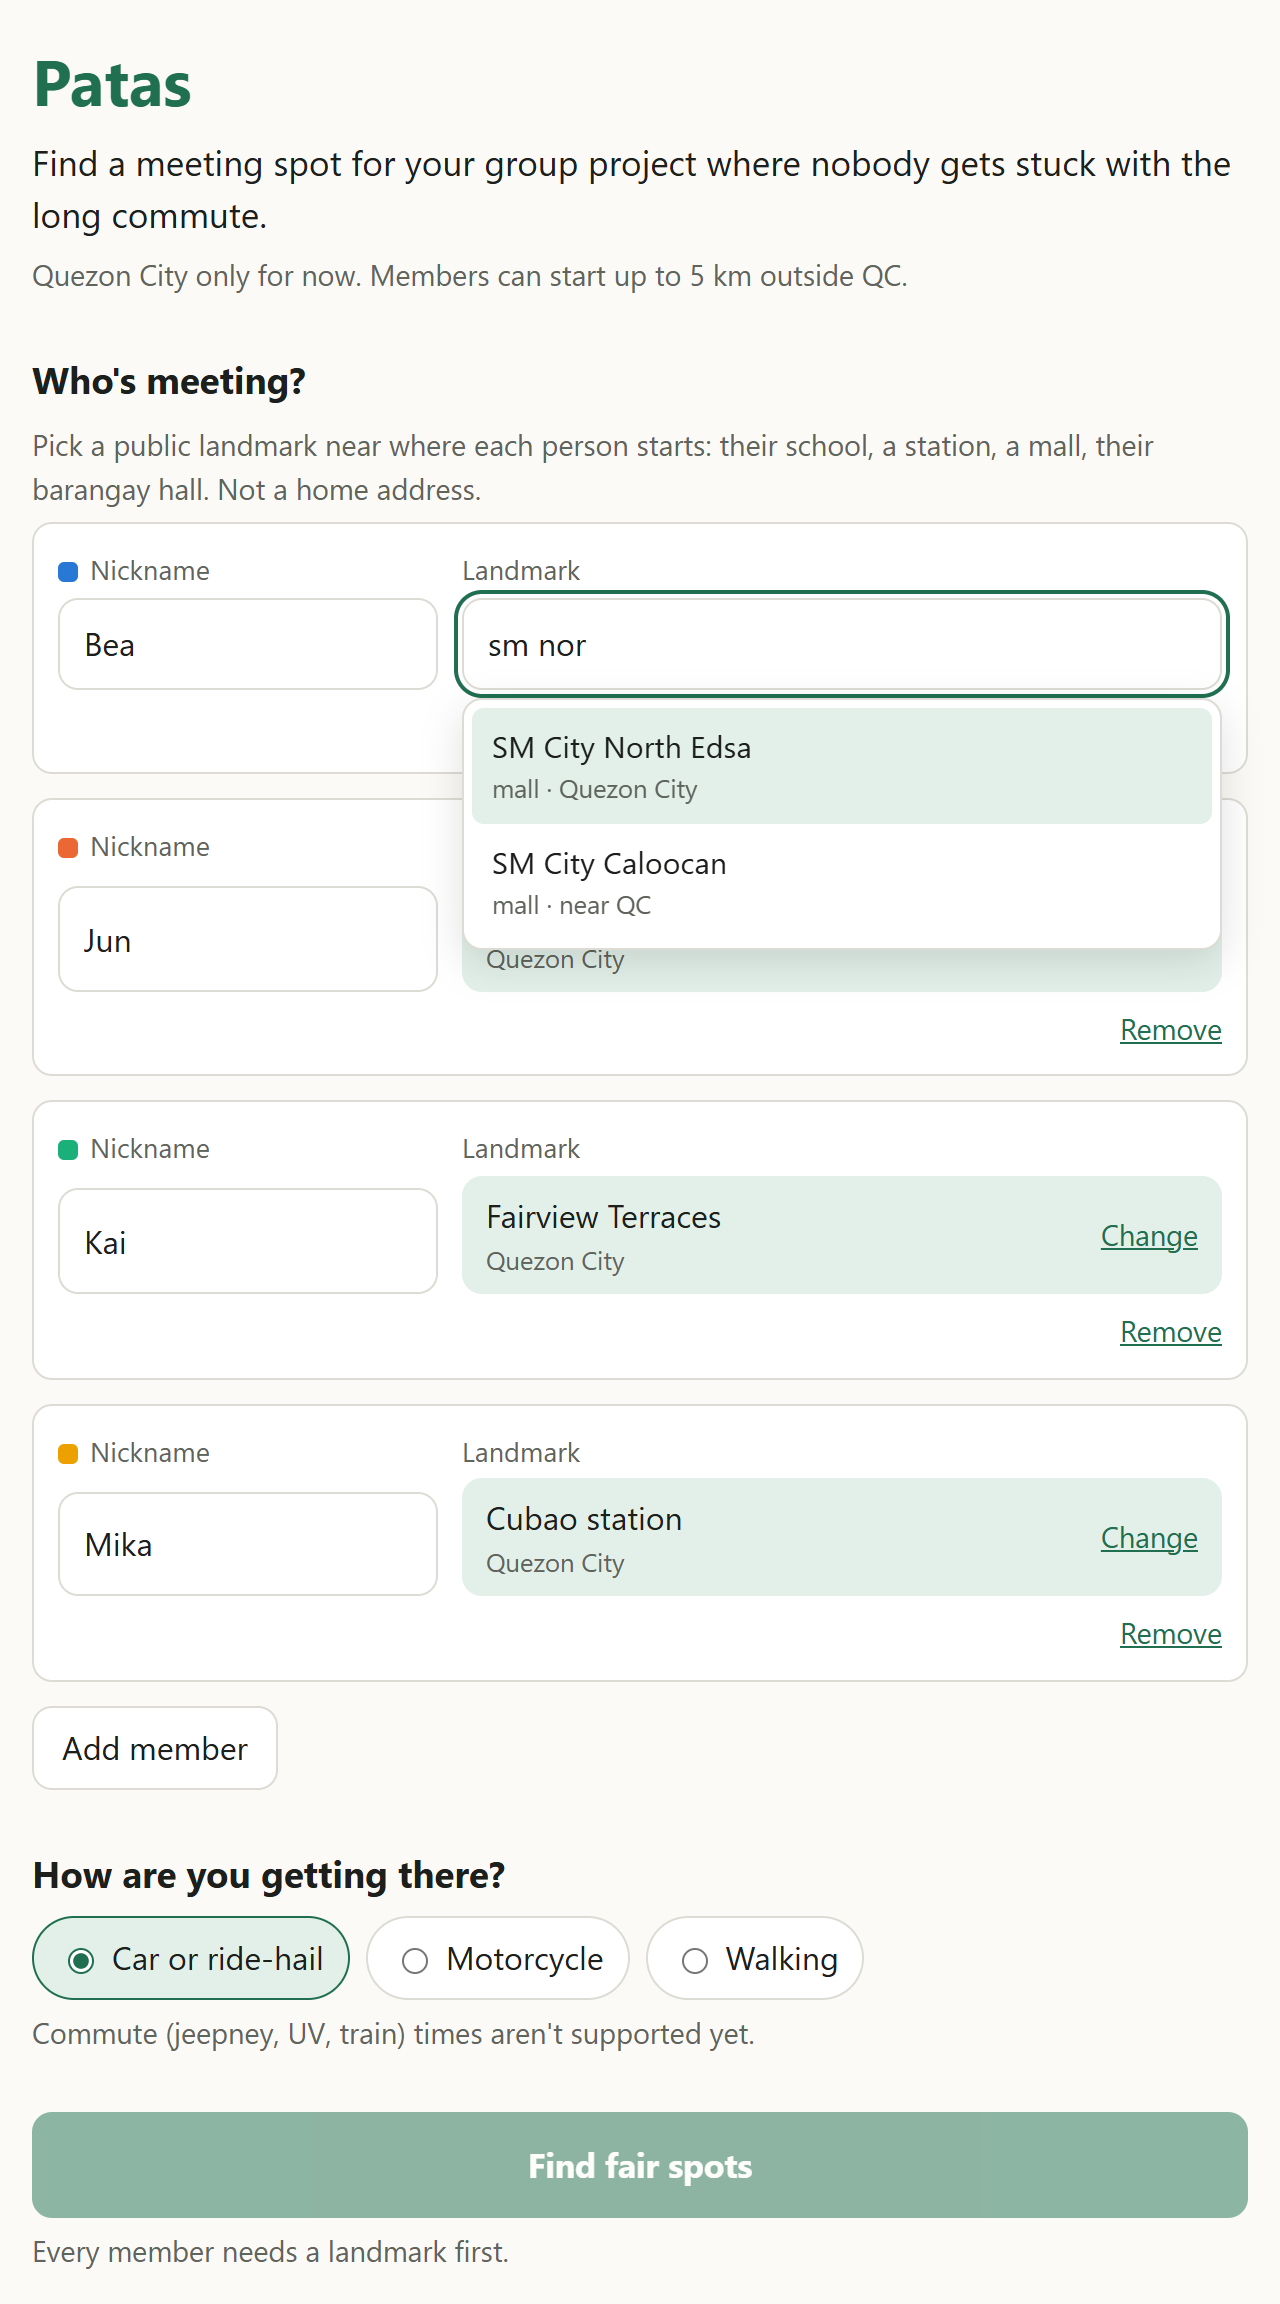
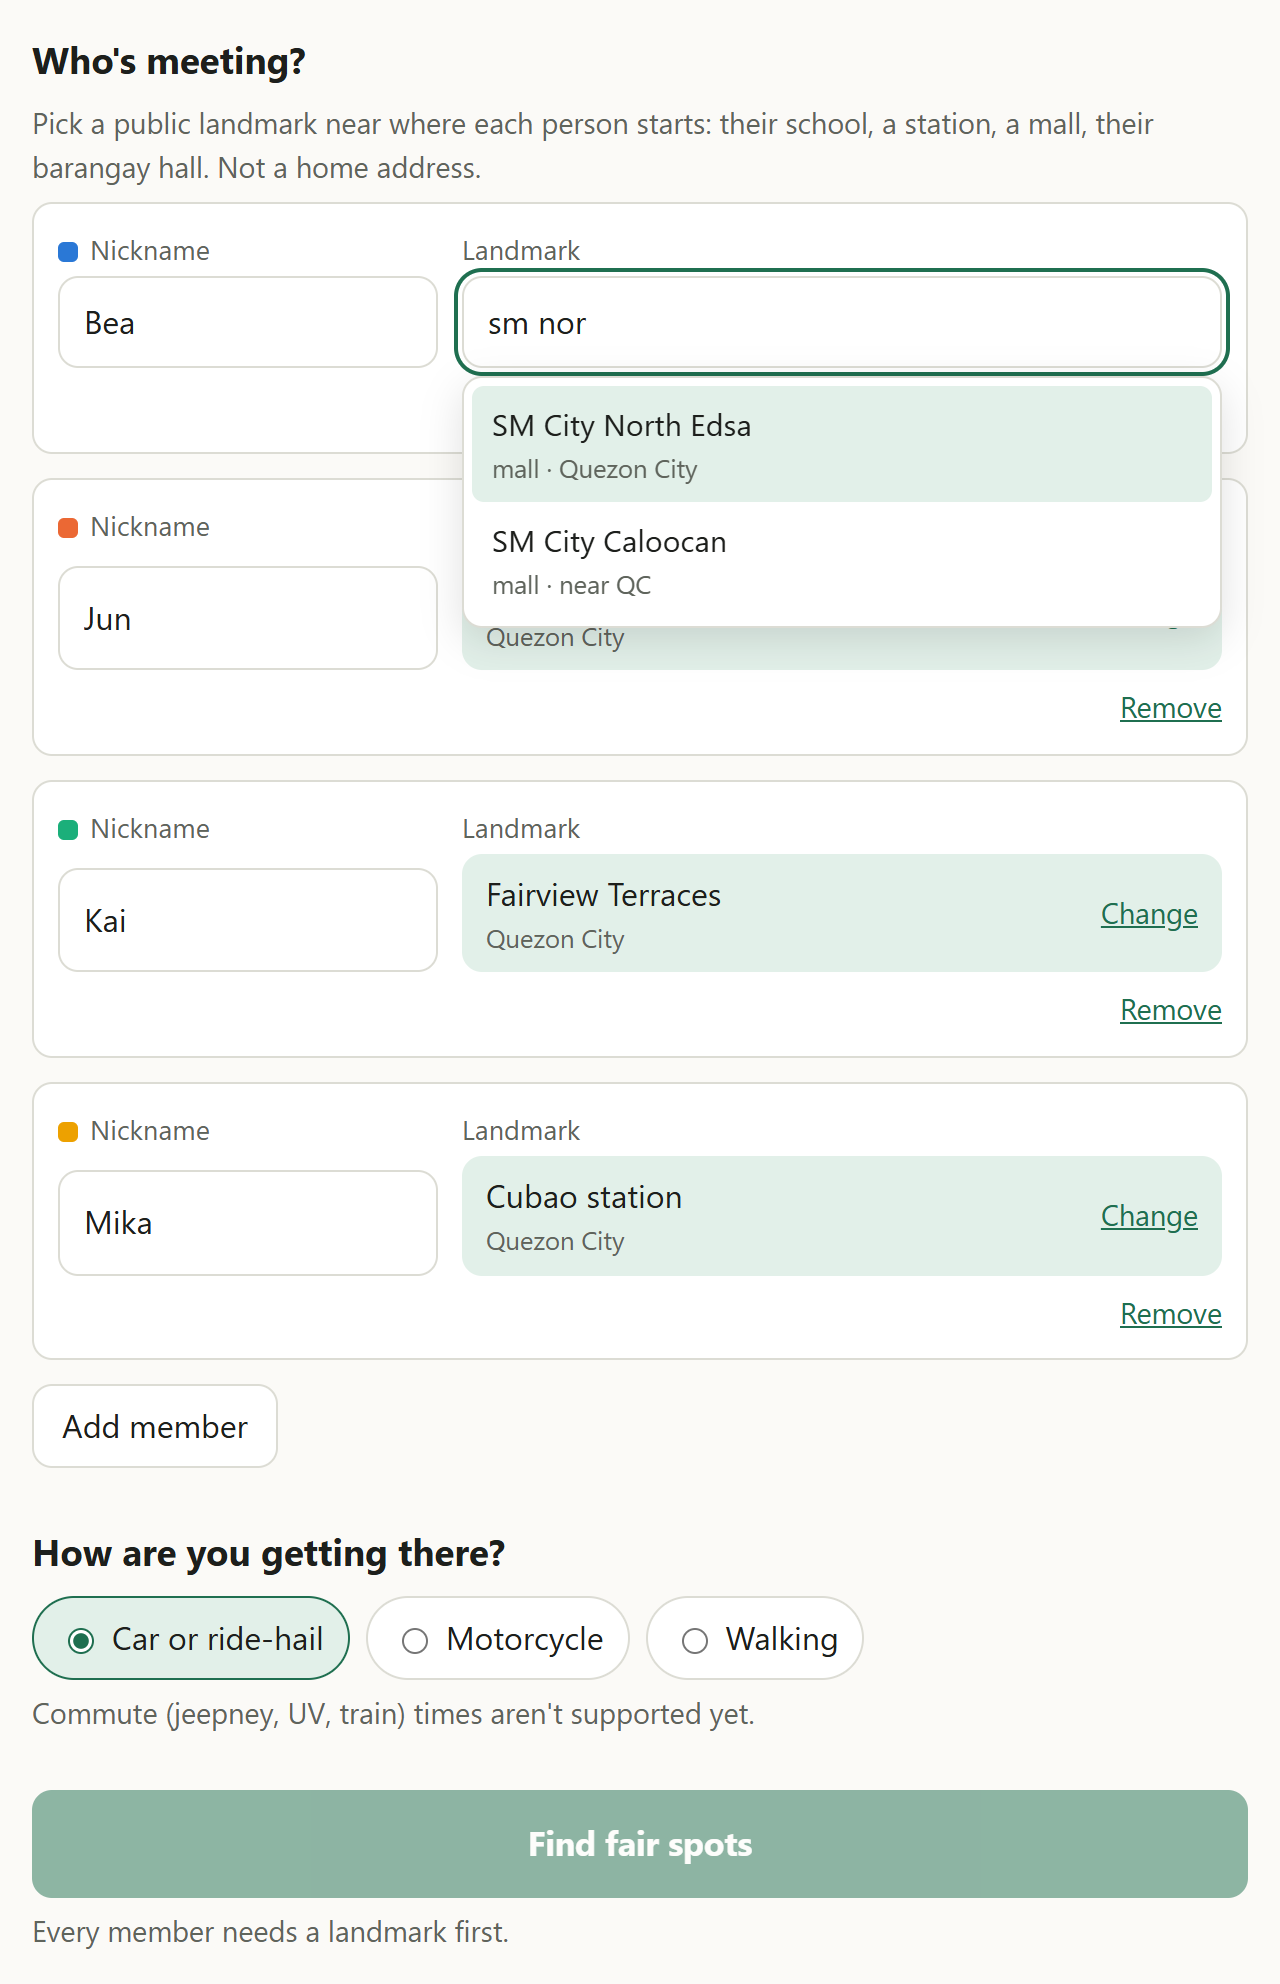
README: group links, deploying, and fresh screenshots
- Steps for group links, plus a phone screenshot of a group page.
- Screenshots retaken with real ORS times (no dev-mode banner); the
  script now also creates a group and joins four members.
- New Deploying section: env vars, db:migrate, the gitignored map file,
  rate limits and purging.
- Corrected "nicknames stay in the browser", which only holds for the
  single-phone planner; ORS keys now come from a HeiGIT account.
- PATAS_LOCAL_DB=1 lets a production build use the local PGlite database,
  for screenshots and demos only.

Changed region(s): [[0.0, 0.0, 0.9688, 0.7188], [0.0, 0.5312, 0.9688, 1.0], [0.0312, 0.4062, 0.1562, 0.5]]

diff --git a/scripts/screenshots.ts b/scripts/screenshots.ts
@@ -1,12 +1,15 @@
 /**
  * Regenerate the README screenshots in docs/screenshots/.
  *
- *   npm run build && ROUTING_PROVIDER=estimate npx next start -p 3100
+ *   npm run build && PATAS_LOCAL_DB=1 npx next start -p 3100
  *   SCREENSHOT_URL=http://localhost:3100 npm run screenshots
  *
  * Drives an installed Edge (SCREENSHOT_BROWSER=chrome for Chrome) through
  * playwright-core, so no browser download. Uses a production build: the dev
- * server adds its own badge to the page. Needs public/tiles (npm run fetch:tiles).
+ * server adds its own badge to the page. Needs public/tiles (npm run
+ * fetch:tiles). Travel times come from .env.local (ORS key, or
+ * ROUTING_PROVIDER=estimate). PATAS_LOCAL_DB=1 lets group links use the
+ * local PGlite database; stop `next dev` first, since both would open it.
  */
 import { mkdirSync } from "node:fs";
 import { chromium, type Browser, type BrowserContextOptions, type Page } from "playwright-core";
@@ -80,7 +83,7 @@ const desktop = { viewport: { width: 1000, height: 1200 }, deviceScaleFactor: 2,
 
 await withPage(browser, desktop, async (page) => {
   await fillGroup(page, true);
-  await shotBetween(page, "header", ".primary + .hint", `${OUT}/1-pick-landmarks.png`);
+  await shotBetween(page, ".planner", ".primary + .hint", `${OUT}/1-pick-landmarks.png`);
 });
 
 await withPage(browser, desktop, async (page) => {
@@ -95,6 +98,40 @@ await withPage(
     await fillGroup(page, false);
     await page.locator(".map").scrollIntoViewIfNeeded();
     await shotBetween(page, ".map", ".venue >> nth=0", `${OUT}/3-phone-dark.png`, 8);
+  },
+);
+
+/** Create a group link in the UI, join as member 1 through the form, the rest via the API (their own "phones"). */
+async function groupWithMembers(page: Page) {
+  await page.goto(BASE);
+  await page.getByRole("button", { name: "Create a group link" }).click();
+  await page.waitForURL(/\/g\/[0-9a-f-]+#k=/);
+  await page.getByPlaceholder("e.g. Bea").fill(GROUP[0].alias);
+  await page.locator(".join").getByRole("combobox").fill(GROUP[0].q);
+  await page.getByRole("option").filter({ hasText: GROUP[0].pick }).first().click();
+  await page.getByRole("button", { name: "Join" }).click();
+  await page.getByText("You're in as").waitFor();
+  await page.evaluate(async (others) => {
+    const k = new URLSearchParams(location.hash.slice(1)).get("k");
+    const id = location.pathname.split("/")[2];
+    const post = (url: string, body: unknown) =>
+      fetch(url, { method: "POST", headers: { "Content-Type": "application/json" }, body: JSON.stringify(body) }).then((r) => r.json());
+    for (const m of others) {
+      const { results } = await post("/api/landmarks", { q: m.q });
+      const cell = results.find((r: { name: string }) => r.name === m.pick).cell;
+      await post(`/api/groups/${id}/join`, { k, alias: m.alias, cell });
+    }
+  }, GROUP.slice(1));
+  await page.reload();
+  await page.locator(".roster li").nth(GROUP.length - 1).waitFor();
+}
+
+await withPage(
+  browser,
+  { viewport: { width: 390, height: 844 }, deviceScaleFactor: 3, isMobile: true, hasTouch: true, colorScheme: "light" },
+  async (page) => {
+    await groupWithMembers(page);
+    await shotBetween(page, ".share", ".primary", `${OUT}/4-group-link.png`, 8);
   },
 );
 

diff --git a/src/lib/db.ts b/src/lib/db.ts
@@ -5,7 +5,9 @@ import { join } from "node:path";
  * Database access. Production: Postgres via `pg` (DATABASE_URL, e.g.
  * Supabase's pooled connection string). Local dev without DATABASE_URL:
  * PGlite (Postgres compiled to WASM) persisted in .data/pglite, so the group
- * flow works with no setup. Tests use an in-memory PGlite.
+ * flow works with no setup. Tests use an in-memory PGlite. PATAS_LOCAL_DB=1
+ * allows the PGlite fallback in a production build too, for local demos and
+ * README screenshots; never set it on a real server.
  *
  * Server-only: never import from a client component.
  */
@@ -75,7 +77,7 @@ export function getDb(): Promise<Db> | null {
   if (g.__patasDb) return g.__patasDb;
   const url = process.env.DATABASE_URL;
   if (url) g.__patasDb = pgDb(url);
-  else if (process.env.NODE_ENV !== "production") g.__patasDb = pgliteDb(join(process.cwd(), ".data", "pglite"));
+  else if (process.env.NODE_ENV !== "production" || process.env.PATAS_LOCAL_DB === "1") g.__patasDb = pgliteDb(join(process.cwd(), ".data", "pglite"));
   else return null;
   g.__patasDb.catch(() => (g.__patasDb = undefined)); // retry on the next request
   return g.__patasDb;

diff --git a/README.md b/README.md
@@ -10,7 +10,15 @@ It covers Quezon City only for now. Members can start up to 5 km outside the cit
 
 Each member picks a public landmark near where they'll start: their school, an LRT/MRT station, a mall, a church or their barangay hall. Home addresses aren't an option, because the search only knows public places.
 
-There are two ways to do this. One person can enter everyone's landmarks on a single phone, or they can create a group link, send it to the group chat, and let each member add their own landmark on their own phone. With a group link, nobody in the group sees anyone else's landmark; they only see the results.
+There are two ways to do this. One person can enter everyone's landmarks on a single phone, or they can create a group link and let each member add their own landmark on their own phone:
+
+1. Someone presses **Create a group link** on the home page and sends the link to the group chat. The page also has a share button and a QR code for people in the same room.
+2. Each member opens the link, picks a nickname and a landmark, and presses **Join**. They can change their landmark later from the same phone.
+3. Once at least two people have joined, anyone in the group can press **Find fair spots**.
+
+Nobody in the group sees anyone else's landmark, only the list of who has joined and the results.
+
+<img src="docs/screenshots/4-group-link.png" alt="A group page on a phone: the link to share, four members who have joined, and the Find fair spots button" width="320">
 
 <img src="docs/screenshots/1-pick-landmarks.png" alt="Landmark search: typing 'sm nor' suggests SM City North Edsa" width="560">
 
@@ -26,7 +34,7 @@ On the map, each member's starting point is a ~200 m hexagon (an [H3](https://h3
 
 <img src="docs/screenshots/3-phone-dark.png" alt="The same results on a phone in dark mode" width="320">
 
-The screenshots were taken in estimate mode (see below), which is why they carry a "dev mode" warning. Real travel times need an OpenRouteService key.
+The screenshots use real OpenRouteService driving times. Those assume no traffic, so rush-hour trips will take longer than shown.
 
 ## Privacy
 
@@ -35,7 +43,7 @@ The people using this are minors, so the design keeps their locations out of eve
 - The landmark list stores H3 cells, not coordinates, and the app sends only cell ids to the server.
 - A group link looks like `/g/<id>#k=<key>`. The key is made in the organiser's browser and sits after the `#`, which browsers never send to a server, so it can't end up in logs. The app passes it in request bodies instead.
 - Each member's cell is stored encrypted (AES-256-GCM) with a key derived from that link key, which the server never stores. A copy of the database alone reveals no locations. The cell is decrypted only in memory while ranking, is never sent back to anyone, and is deleted 48 hours after joining.
-- Nicknames stay in the browser. The API sees `m1`, `m2`, and so on.
+- On the single-phone planner, nicknames stay in the browser and the API sees `m1`, `m2`, and so on. With a group link, nicknames are stored so members can see who has joined, which is why the form asks for a nickname rather than a name.
 - Landmark search, candidate venues and map tiles are all served from local OpenStreetMap snapshots, so no third party sees what a member typed or which part of the city they're looking at.
 - The only outside call is the travel-time request to the routing provider, which gets cell centres, not landmarks.
 - Nothing location-related is logged, and the only location data stored is those encrypted, expiring cells.
@@ -60,7 +68,7 @@ Without a routing key, run in estimate mode, which fakes travel times from strai
 ROUTING_PROVIDER=estimate
 ```
 
-For real driving and walking times, use a free [OpenRouteService](https://openrouteservice.org) key instead:
+For real driving and walking times, use a free OpenRouteService key from a [HeiGIT account](https://account.heigit.org) instead:
 
 ```
 ORS_API_KEY=your-key
@@ -80,6 +88,17 @@ Group links need a database. Locally they work with no setup: without `DATABASE_
 npm run db:migrate
 ```
 
+## Deploying
+
+Set these on the host, since `.env.local` isn't deployed:
+
+- `ORS_API_KEY` for travel times;
+- `DATABASE_URL` for group links, then run `npm run db:migrate` against it once. Without it, the single-phone planner still works and group links answer "not set up".
+
+The map file (`public/tiles/metro-manila.pmtiles`, about 39 MB) is gitignored, so a deploy from git won't have it. Run `npm run fetch:tiles` as part of the build, or upload the file to the host.
+
+With a database configured, searches, group creation and joins are rate-limited per client. Only a hash of the client's IP address is stored. Expired groups and landmarks are deleted as the app runs; `npm run db:purge` does the same on demand.
+
 ## Useful commands
 
 | Command | What it does |
@@ -92,7 +111,7 @@ npm run db:migrate
 | `npm run fetch:landmarks` | Rebuild `data/qc-landmarks.json` |
 | `npm run fetch:boundary` | Regenerate the Quezon City boundary polygon |
 | `npm run fetch:tiles` | Cut the Metro Manila basemap into `public/tiles/` |
-| `npm run screenshots` | Regenerate the images in this README (see the script header) |
+| `npm run screenshots` | Regenerate the images in this README against a production build (see the script header) |
 
 ## Status
 
@@ -100,7 +119,8 @@ This is an MVP. Still to come:
 
 - "we met here", so the next search favours whoever travelled most last time;
 - jeepney, UV and train times, and fares;
-- a curated list of venues that actually let students stay for hours.
+- a curated list of venues that actually let students stay for hours;
+- an option to hide each member's travel times from the rest of the group.
 
 The working notes and ordered next steps are in [CLAUDE.md](CLAUDE.md).
 

diff --git a/CLAUDE.md b/CLAUDE.md
@@ -106,6 +106,8 @@ Working name "patas" (Tagalog: even/fair). Portfolio-grade MVP first; product la
 - `npm run db:migrate` / `npm run db:purge` — against `DATABASE_URL` (or local PGlite)
 - `npm run screenshots` — README images via playwright-core + installed Edge,
   against a production build (`next start`), not the dev server
+  (`PATAS_LOCAL_DB=1 npx next start` so group links use local PGlite; stop
+  `next dev` first since both would open `.data/pglite`)
 - Don't run `next build` while `next dev` is running: they share `.next`
   and the dev page stops hydrating (chunk 404s).
 
